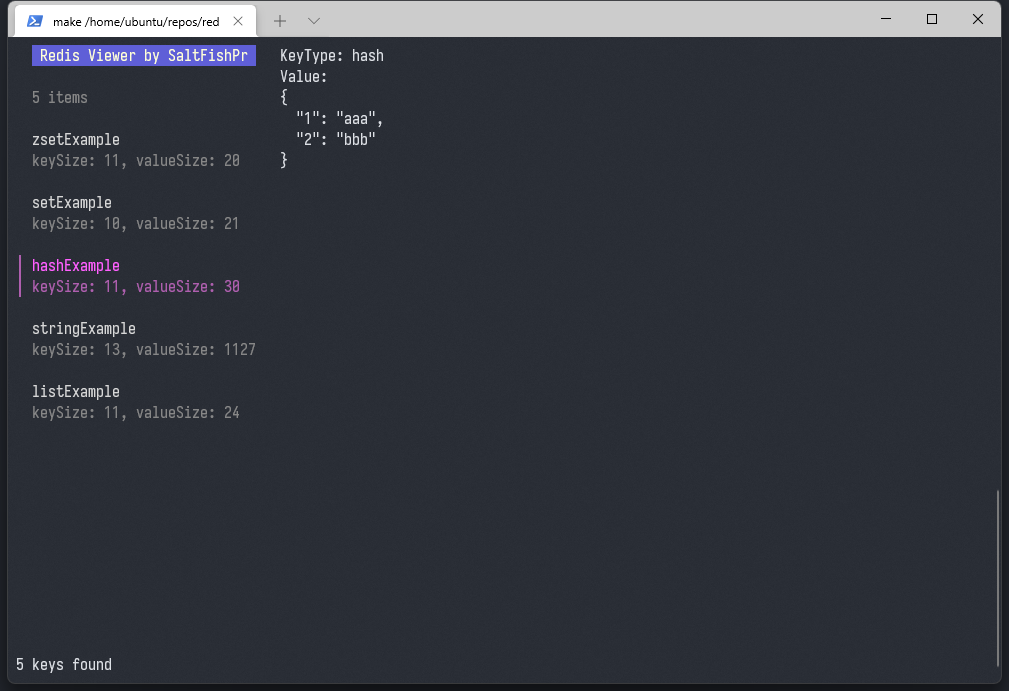
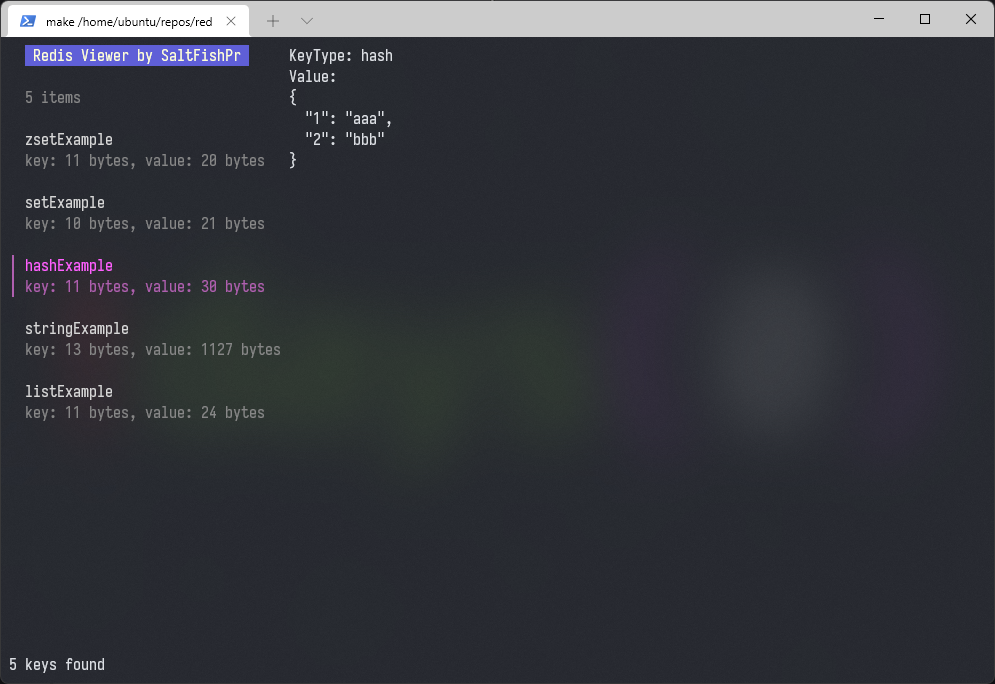
update description format

diff --git a/internal/tui/item.go b/internal/tui/item.go
@@ -4,7 +4,9 @@
 
 package tui
 
-import "strconv"
+import (
+	"fmt"
+)
 
 type item struct {
 	keyType string
@@ -20,6 +22,6 @@ func (i item) Description() string {
 	if i.err {
 		return "get error: " + i.val
 	}
-	return "keySize: " + strconv.Itoa(len(i.key)) + ", valueSize: " + strconv.Itoa(len(i.val))
+	return fmt.Sprintf("key: %d bytes, value: %d bytes", len(i.key), len(i.val))
 }
 func (i item) FilterValue() string { return i.key }
